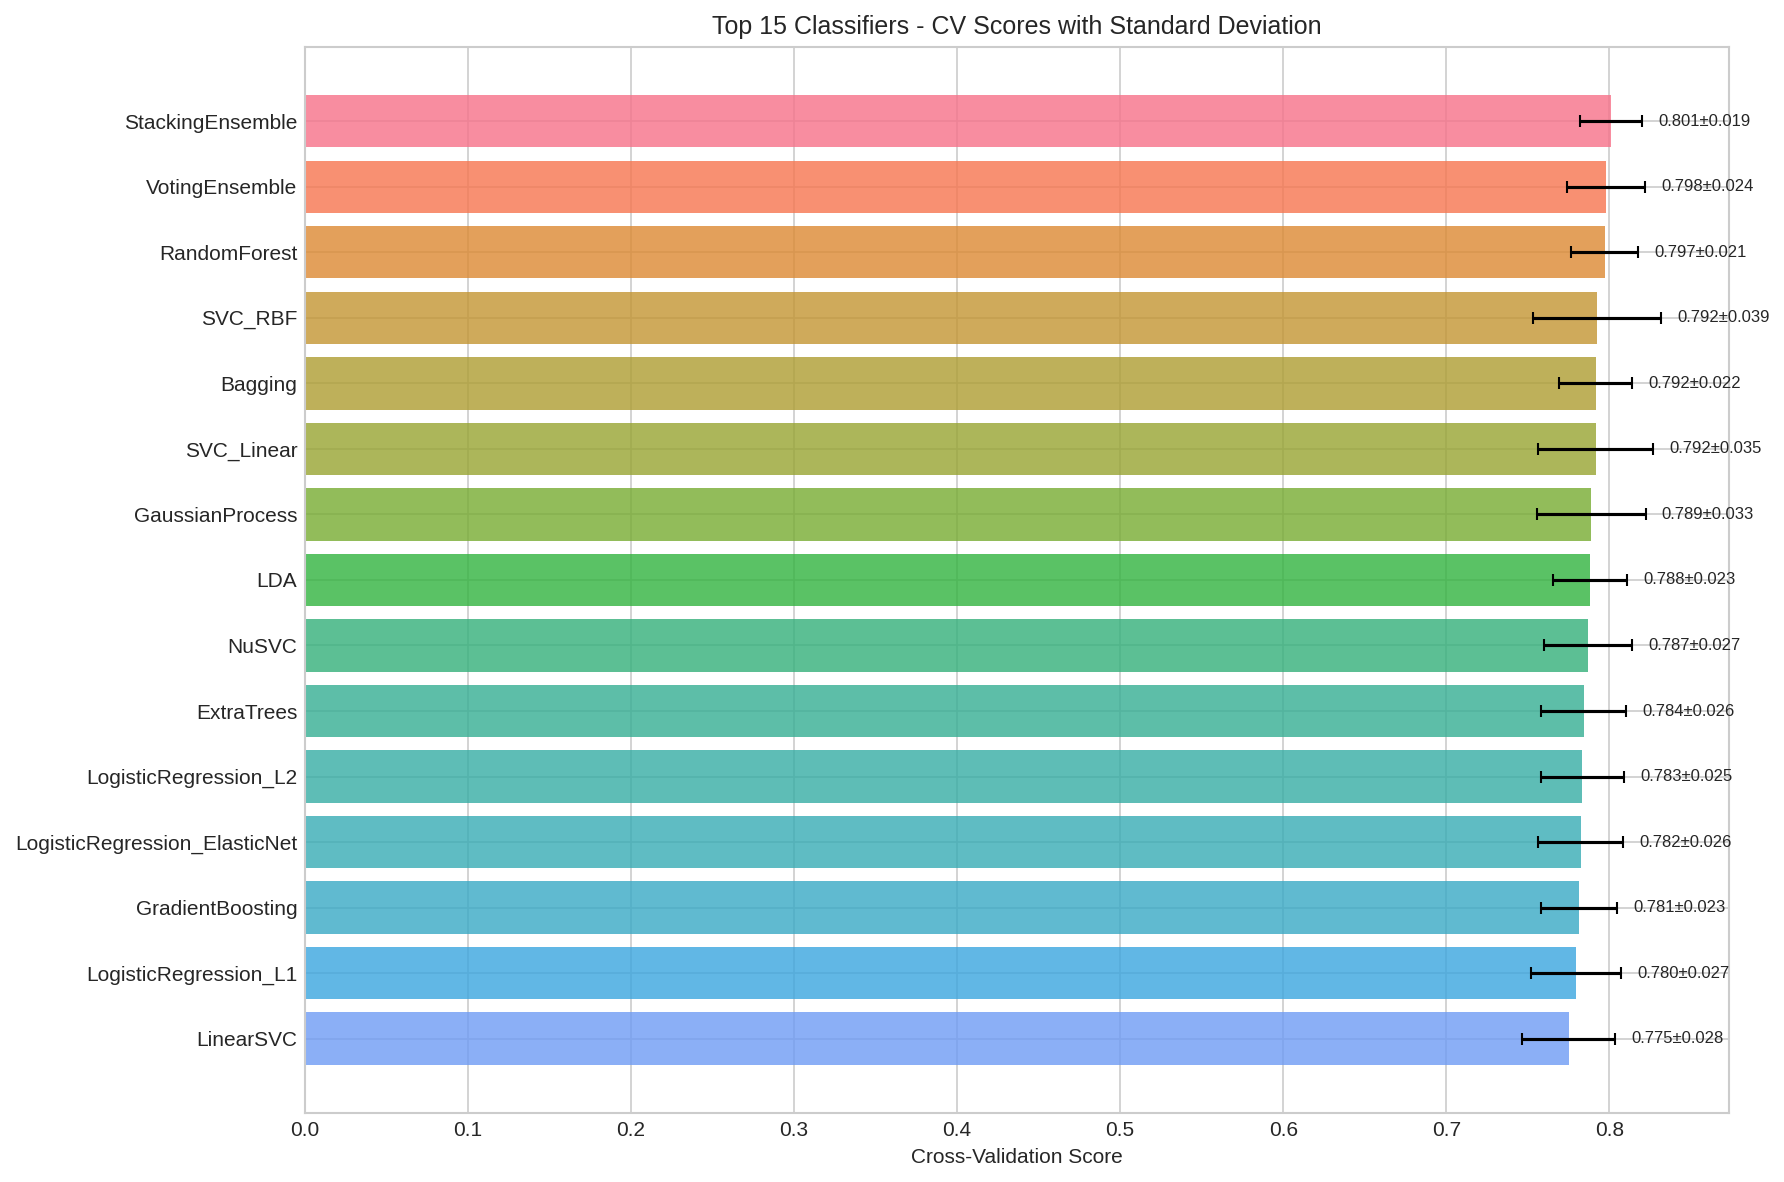
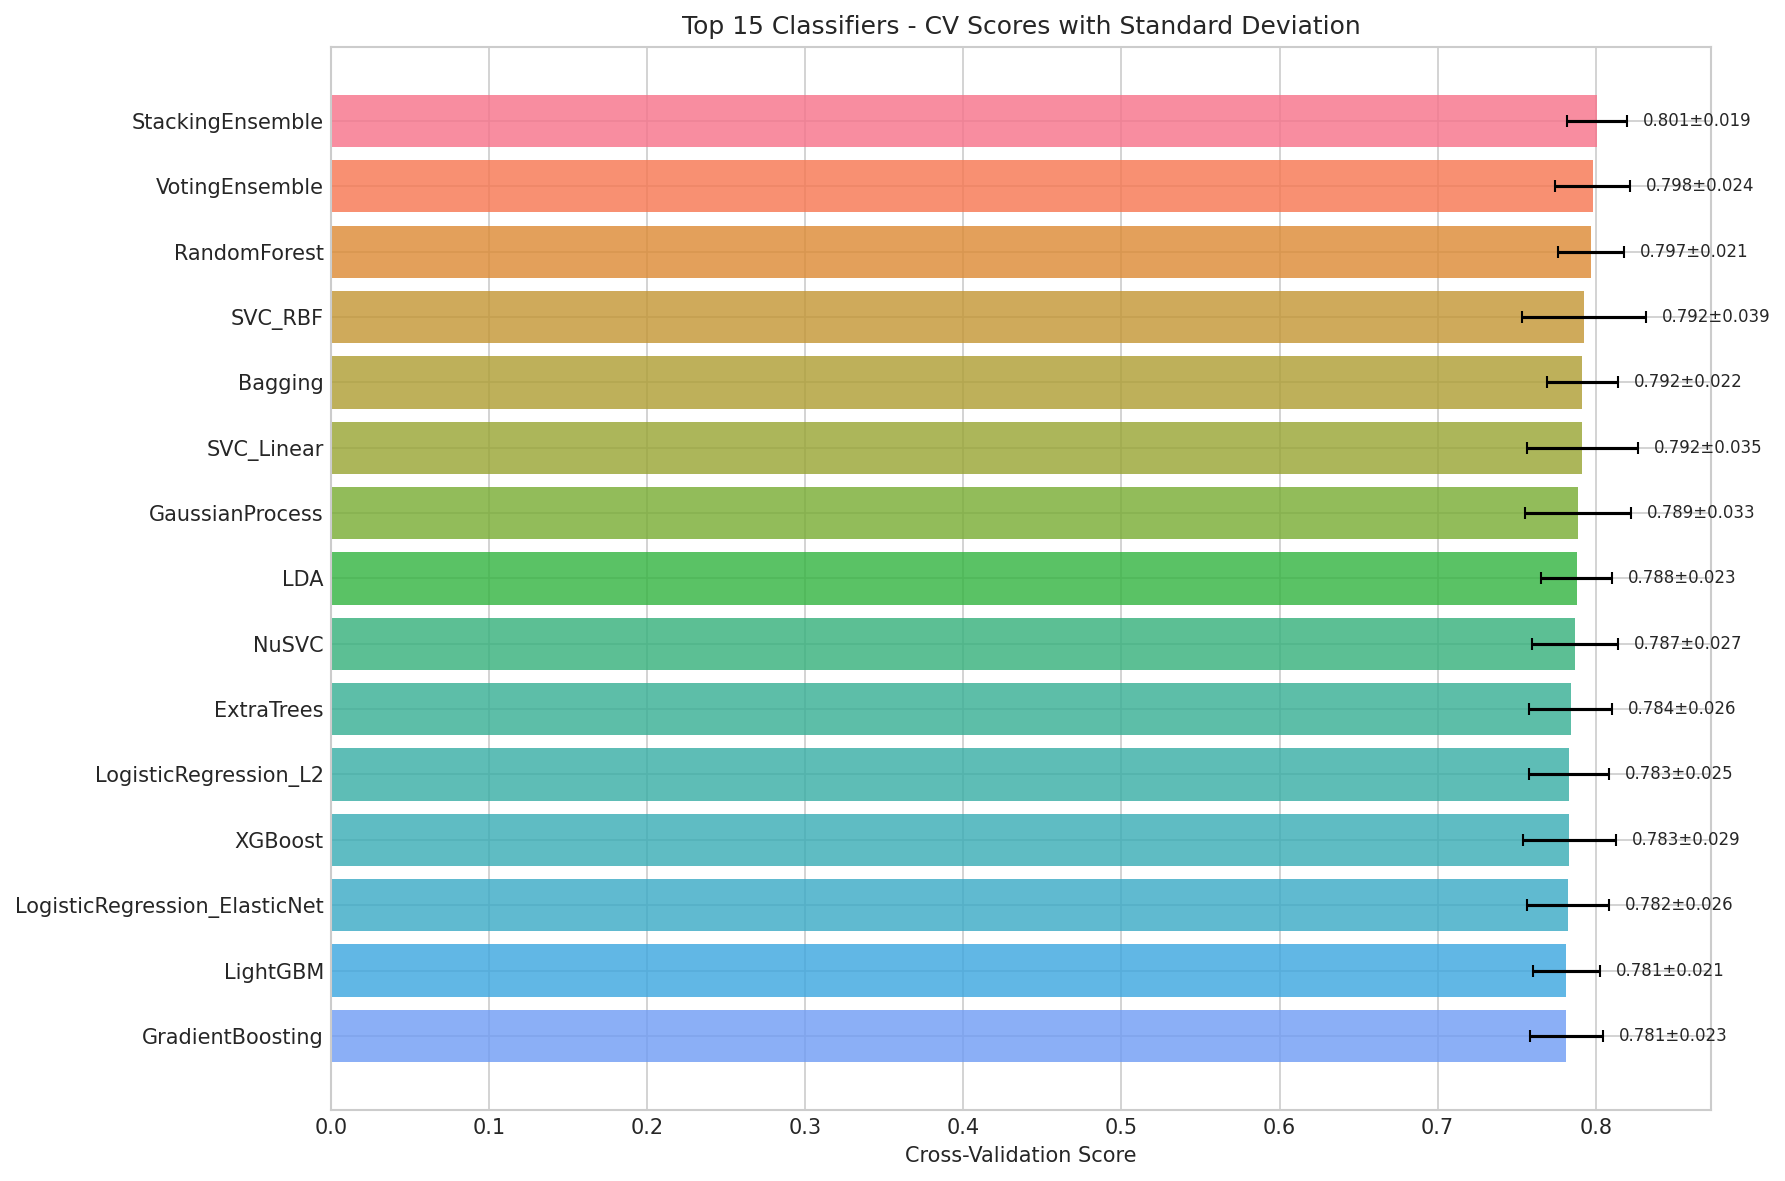
Results and some improves on warnings

diff --git a/ml_classification/classifiers.py b/ml_classification/classifiers.py
@@ -25,7 +25,6 @@ from sklearn.gaussian_process import GaussianProcessClassifier
 from sklearn.gaussian_process.kernels import RBF
 from sklearn.linear_model import (
     LogisticRegression,
-    PassiveAggressiveClassifier,
     Perceptron,
     RidgeClassifier,
     SGDClassifier,
@@ -87,27 +86,24 @@ class ClassifierFactory:
         """Get linear classifiers with regularization."""
         return {
             "LogisticRegression_L2": LogisticRegression(
-                penalty="l2",
-                C=1.0,
-                max_iter=1000,
-                random_state=self.random_seed,
-                n_jobs=self.n_jobs,
-            ),
-            "LogisticRegression_L1": LogisticRegression(
-                penalty="l1",
+                l1_ratio=0,
                 C=1.0,
                 solver="saga",
                 max_iter=1000,
                 random_state=self.random_seed,
-                n_jobs=self.n_jobs,
+            ),
+            "LogisticRegression_L1": LogisticRegression(
+                l1_ratio=1,
+                C=1.0,
+                solver="saga",
+                max_iter=1000,
+                random_state=self.random_seed,
             ),
             "LogisticRegression_ElasticNet": LogisticRegression(
-                penalty="elasticnet",
                 l1_ratio=0.5,
                 solver="saga",
                 max_iter=1000,
                 random_state=self.random_seed,
-                n_jobs=self.n_jobs,
             ),
             "RidgeClassifier": RidgeClassifier(alpha=1.0, random_state=self.random_seed),
             "SGDClassifier": SGDClassifier(
@@ -120,8 +116,14 @@ class ClassifierFactory:
             "Perceptron": Perceptron(
                 penalty="l2", max_iter=1000, random_state=self.random_seed, n_jobs=self.n_jobs
             ),
-            "PassiveAggressive": PassiveAggressiveClassifier(
-                max_iter=1000, random_state=self.random_seed, n_jobs=self.n_jobs
+            "PassiveAggressive": SGDClassifier(
+                loss="hinge",
+                penalty=None,
+                learning_rate="constant",
+                eta0=1.0,
+                max_iter=1000,
+                random_state=self.random_seed,
+                n_jobs=self.n_jobs,
             ),
         }
 
@@ -203,7 +205,6 @@ class ClassifierFactory:
         xgb_params = {
             "n_estimators": 100,
             "random_state": self.random_seed,
-            "use_label_encoder": False,
             "eval_metric": "mlogloss",
         }
         if self.use_gpu:
@@ -264,30 +265,26 @@ class ClassifierFactory:
     def get_voting_ensemble(
         self, base_classifiers: dict[str, ClassifierMixin] | None = None
     ) -> VotingClassifier:
-        """Create a voting ensemble from selected classifiers."""
+        """Create a voting ensemble from selected classifiers.
+        
+        Note: Uses CPU for XGBoost/LightGBM to avoid device mismatch during CV.
+        """
         if base_classifiers is None:
-            # XGBoost config for ensemble
+            # XGBoost config for ensemble - use CPU to avoid device mismatch in CV
             xgb_params = {
                 "n_estimators": 100,
                 "random_state": self.random_seed,
                 "eval_metric": "mlogloss",
+                "n_jobs": self.n_jobs,
             }
-            if self.use_gpu:
-                xgb_params["device"] = "cuda"
-                xgb_params["tree_method"] = "hist"
-            else:
-                xgb_params["n_jobs"] = self.n_jobs
 
-            # LightGBM config for ensemble
+            # LightGBM config for ensemble - use CPU
             lgbm_params = {
                 "n_estimators": 100,
                 "random_state": self.random_seed,
                 "verbose": -1,
+                "n_jobs": self.n_jobs,
             }
-            if self.use_gpu:
-                lgbm_params["device"] = "gpu"
-            else:
-                lgbm_params["n_jobs"] = self.n_jobs
 
             base_classifiers = {
                 "rf": RandomForestClassifier(
@@ -306,19 +303,18 @@ class ClassifierFactory:
         base_classifiers: dict[str, ClassifierMixin] | None = None,
         final_estimator: ClassifierMixin | None = None,
     ) -> StackingClassifier:
-        """Create a stacking ensemble from selected classifiers."""
+        """Create a stacking ensemble from selected classifiers.
+        
+        Note: Uses CPU for XGBoost to avoid device mismatch during CV.
+        """
         if base_classifiers is None:
-            # XGBoost config for stacking
+            # XGBoost config for stacking - use CPU to avoid device mismatch in CV
             xgb_params = {
                 "n_estimators": 50,
                 "random_state": self.random_seed,
                 "eval_metric": "mlogloss",
+                "n_jobs": self.n_jobs,
             }
-            if self.use_gpu:
-                xgb_params["device"] = "cuda"
-                xgb_params["tree_method"] = "hist"
-            else:
-                xgb_params["n_jobs"] = self.n_jobs
 
             base_classifiers = {
                 "rf": RandomForestClassifier(
@@ -371,7 +367,7 @@ class ClassifierFactory:
                 n_estimators=50, random_state=self.random_seed, n_jobs=self.n_jobs
             ),
             "LogisticRegression_L2": LogisticRegression(
-                max_iter=1000, random_state=self.random_seed, n_jobs=self.n_jobs
+                l1_ratio=0, solver="saga", max_iter=1000, random_state=self.random_seed
             ),
             "KNN_5": KNeighborsClassifier(n_neighbors=5, n_jobs=self.n_jobs),
             "GaussianNB": GaussianNB(),

diff --git a/ml_classification/training.py b/ml_classification/training.py
@@ -1,13 +1,32 @@
 """Training pipeline for ML classification."""
 
+import contextlib
+import os
+import sys
 import time
+import warnings
 from dataclasses import dataclass
 from pathlib import Path
 from typing import Any
 
 import numpy as np
 import pandas as pd
+from joblib import parallel_config
 from sklearn.base import ClassifierMixin, clone
+
+
+@contextlib.contextmanager
+def suppress_stderr():
+    """Context manager to suppress stderr output (for C++ library warnings)."""
+    with open(os.devnull, 'w') as devnull:
+        old_stderr = sys.stderr
+        sys.stderr = devnull
+        try:
+            yield
+        finally:
+            sys.stderr = old_stderr
+
+
 from sklearn.metrics import (
     accuracy_score,
     balanced_accuracy_score,
@@ -68,6 +87,13 @@ class TrainingPipeline:
         self.results: list[ClassifierResult] = []
         self.trained_models: dict[str, ClassifierMixin] = {}
         self.feature_importances: dict[str, np.ndarray] = {}
+        
+        # Suppress various warnings globally
+        warnings.filterwarnings("ignore", message=".*mismatched devices.*")
+        warnings.filterwarnings("ignore", message=".*Falling back to prediction.*")
+        warnings.filterwarnings("ignore", message=".*does not have valid feature names.*")
+        warnings.filterwarnings("ignore", category=UserWarning, module="xgboost")
+        warnings.filterwarnings("ignore", category=UserWarning, module="sklearn.utils.validation")
 
     def train_single_classifier(
         self,
@@ -89,15 +115,27 @@ class TrainingPipeline:
 
         start_time = time.time()
 
+        # Determine n_jobs for CV: use 1 for GPU-accelerated classifiers to avoid device issues
+        # and use threading backend to avoid Python 3.13 segfaults with loky
+        is_gpu_classifier = name in ["XGBoost", "LightGBM", "CatBoost"] and self.config.use_gpu
+        cv_n_jobs = 1 if is_gpu_classifier else self.config.n_jobs
+        
+        # Use stderr suppression for GPU classifiers to hide C++ warnings
+        stderr_ctx = suppress_stderr() if is_gpu_classifier else contextlib.nullcontext()
+
         try:
-            cv_scores = cross_val_score(
-                clone(classifier),
-                X_train,
-                y_train,
-                cv=cv,
-                scoring="accuracy",
-                n_jobs=self.config.n_jobs,
-            )
+            # Use threading backend to avoid segfaults with Python 3.13
+            with parallel_config(backend="threading"), warnings.catch_warnings(), stderr_ctx:
+                warnings.filterwarnings("ignore", message=".*mismatched devices.*")
+                warnings.filterwarnings("ignore", message=".*Falling back to prediction.*")
+                cv_scores = cross_val_score(
+                    clone(classifier),
+                    X_train,
+                    y_train,
+                    cv=cv,
+                    scoring="accuracy",
+                    n_jobs=cv_n_jobs,
+                )
         except Exception as e:
             print(f"CV failed for {name}: {e}")
             cv_scores = np.array([0.0])

diff --git a/ml_classification/optimization.py b/ml_classification/optimization.py
@@ -201,20 +201,17 @@ class OptunaOptimizer:
         }
 
     def _logistic_regression_space(self, trial: optuna.Trial) -> dict[str, Any]:
-        penalty = trial.suggest_categorical("penalty", ["l1", "l2", "elasticnet"])
+        # Use l1_ratio instead of deprecated penalty parameter
+        # l1_ratio=0 for L2, l1_ratio=1 for L1, values in between for ElasticNet
+        l1_ratio = trial.suggest_float("l1_ratio", 0.0, 1.0)
 
         params = {
             "C": trial.suggest_float("C", 0.001, 100.0, log=True),
-            "penalty": penalty,
+            "l1_ratio": l1_ratio,
+            "solver": "saga",  # saga supports all regularization types
             "max_iter": 1000,
             "random_state": self.config.random_seed,
-            "n_jobs": self.config.n_jobs,
         }
-
-        if penalty in ["l1", "elasticnet"]:
-            params["solver"] = "saga"
-        if penalty == "elasticnet":
-            params["l1_ratio"] = trial.suggest_float("l1_ratio", 0.0, 1.0)
 
         return params
 

diff --git a/run_classification.py b/run_classification.py
@@ -6,9 +6,20 @@ predicting location classes based on WiFi RSSI fingerprints.
 """
 
 import argparse
+import os
 import sys
 import time
+import warnings
 from pathlib import Path
+
+# Suppress XGBoost verbosity before importing it
+os.environ["XGBOOST_VERBOSITY"] = "0"
+
+# Suppress sklearn and other warnings
+warnings.filterwarnings("ignore", message=".*mismatched devices.*")
+warnings.filterwarnings("ignore", message=".*Falling back to prediction.*")
+warnings.filterwarnings("ignore", message=".*does not have valid feature names.*")
+warnings.filterwarnings("ignore", category=UserWarning)
 
 from ml_classification import (
     Config,
